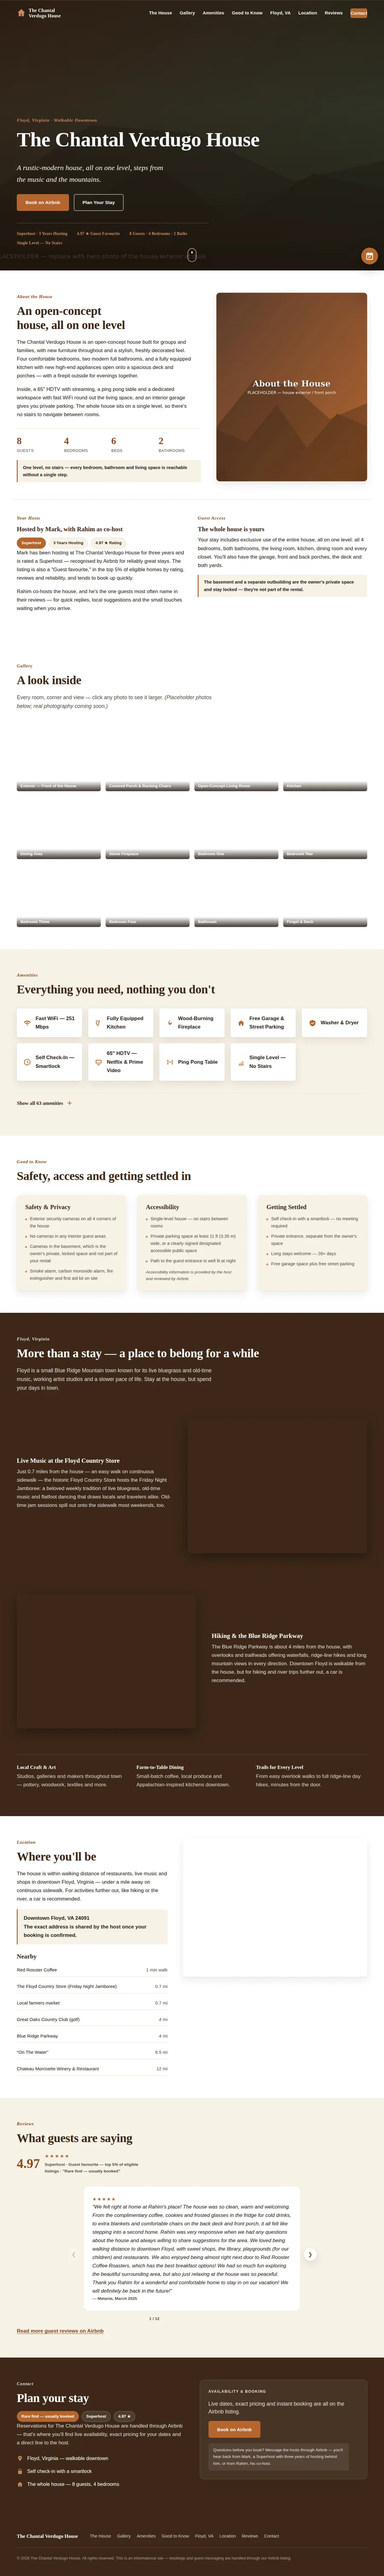
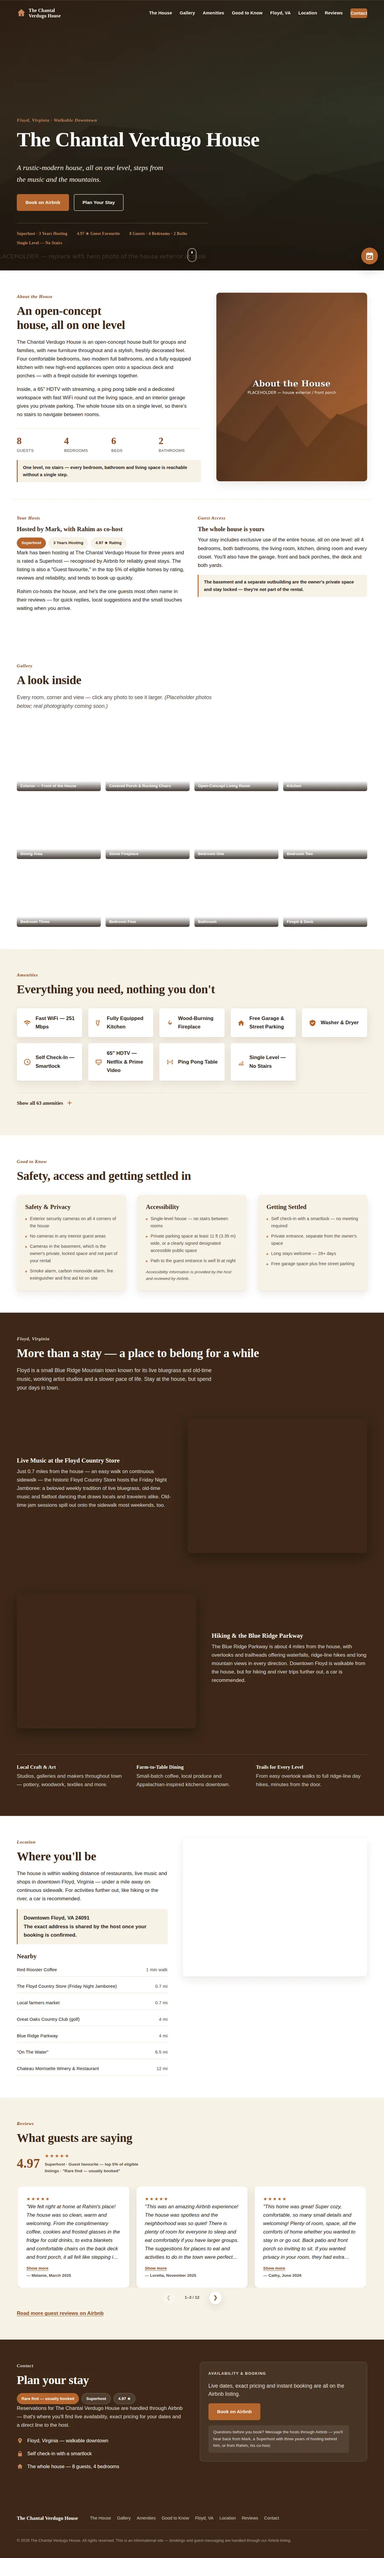
feat(chantal): show 2-3 reviews at a time, and clamp the long quotes (#9)
Owner asked whether several review cards could be visible at once. They can:
three across from 1200px, two from 960px, one below that. The counter follows
("1-3 / 12") and the arrows stop on the last full group rather than the last
card, so paging never leaves a gap at the end of the track.

Fitting more across costs height, though, and that needed fixing first. Cards
share a flex row, so the track always reserves the tallest card's height —
Melanie's two-paragraph review. Narrower cards wrap it onto more lines, so at
three across the box grew to 777px and a page of short reviews sat under about
500px of dead space. Measured at 1440px: 412px tall at one across, 552px at
two, 777px at three.

So clamp the quotes to seven lines, with a "Show more" on the ones that
actually overflow — the same shape Airbnb itself uses. Every card now lands at
the same height and the box is 336px at every width, which is smaller than the
one-across layout it replaces and roughly 470px smaller on a phone.

The clamp is visual only: the full text stays in the DOM, so it is still
verbatim and still there for anything reading the page rather than looking at
it. It is gated behind html.js, because with no script there is no button to
expand with and nothing may be hidden.

Breakpoints are set by the height they produce rather than by round numbers.
Going two-across at 820px made the box 749px tall, worse than the 412px of one
across just below it; 960px keeps cards wide enough to wrap sanely.
[…]

diff --git a/projects/chantal_verdugo_house/css/styles.css b/projects/chantal_verdugo_house/css/styles.css
@@ -1167,14 +1167,19 @@ address {
 
 /* ============ REVIEWS ============ */
 
-/* One review at a time in a bounded box. The track is a native scroll-snap
-   strip, so with JavaScript off it is still swipeable and keyboard-scrollable
-   rather than broken — the arrows are the enhancement, and they hide without JS
-   (see html.js below). */
+/* Three reviews across on a wide screen, two on a tablet, one on a phone. The
+   track is a native scroll-snap strip, so with JavaScript off it is still
+   swipeable and keyboard-scrollable rather than broken — the arrows are the
+   enhancement, and they hide without JS (see html.js below).
+
+   Note the cost of showing more at once: every slide stretches to the tallest,
+   and narrower cards wrap the long quotes onto more lines, so the box grows.
+   Measured at 1440px — 1 across: 412px tall. 2 across: 552px. 3 across: 777px.
+   Dropping the 1120px breakpoint below caps it at two and buys back ~225px. */
 .reviews-carousel {
   position: relative;
   margin: 2.5rem auto 0;
-  max-width: 720px;
+  max-width: 1160px;
 }
 
 .reviews-carousel__track {
@@ -1182,6 +1187,7 @@ address {
   padding: 0;
   margin: 0;
   display: flex;
+  align-items: flex-start;
   gap: 1.5rem;
   overflow-x: auto;
   scroll-snap-type: x mandatory;
@@ -1200,24 +1206,88 @@ address {
   border-radius: var(--radius-lg);
 }
 
+/* snap-align is start, not center: with several cards visible, centring snaps
+   the wrong one into the middle of the track. */
 .review-card {
   flex: 0 0 100%;
-  scroll-snap-align: center;
+  scroll-snap-align: start;
   padding: 1.75rem;
   background: var(--white);
   border-radius: var(--radius-lg);
   box-shadow: var(--shadow-card);
 }
 
+/* Thresholds are set by the height they produce, not by round numbers: a card
+   narrower than ~450px wraps the long quotes badly. Going two-up at 820px made
+   the box 749px tall — worse than the 412px of one-up just below it. */
+@media (min-width: 960px) {
+  .review-card {
+    flex-basis: calc((100% - 1.5rem) / 2);
+  }
+}
+
+@media (min-width: 1200px) {
+  .review-card {
+    flex-basis: calc((100% - 3rem) / 3);
+  }
+}
+
 .review-card > * + * {
   margin-top: 0.75rem;
 }
 
-/* Same 44px circle as .lightbox__nav, recoloured for a light section. */
+/* Guest reviews range from two lines to two paragraphs. Left alone, the track
+   reserves the tallest one's height at every position, so a page of short
+   reviews sat under ~500px of dead space. Clamping evens the cards out and the
+   full text is one click away.
+
+   Gated behind html.js: with no script there is no button to expand with, so
+   nothing may be hidden. */
+html.js .review-card__quote--clamped {
+  display: -webkit-box;
+  -webkit-line-clamp: 7;
+  -webkit-box-orient: vertical;
+  overflow: hidden;
+}
+
+.review-card__more {
+  padding: 0;
+  background: none;
+  border: none;
+  font: inherit;
+  font-style: normal;
+  font-size: 0.85rem;
+  font-weight: 700;
+  color: var(--copper-deep);
+  text-decoration: underline;
+  text-underline-offset: 0.2em;
+  cursor: pointer;
+}
+
+.review-card__more:hover,
+.review-card__more:focus-visible {
+  color: var(--wood-deep);
+}
+
+/* Same 44px circle as .lightbox__nav, recoloured for a light section. The
+   carousel is laid out as a row under the track by default: [prev] [n / 12]
+   [next]. Overlaying the arrows on the card edges only works when the viewport
+   is wide enough to leave a real gutter outside the 1160px box, which is what
+   the 1360px query below checks for. */
+.reviews-carousel {
+  display: flex;
+  flex-wrap: wrap;
+  align-items: center;
+  justify-content: center;
+  gap: 0.75rem;
+}
+
+.reviews-carousel__track {
+  order: 1;
+  flex: 0 0 100%;
+}
+
 .reviews-carousel__nav {
-  position: absolute;
-  top: 50%;
-  transform: translateY(-50%);
   z-index: 2;
   width: 44px;
   height: 44px;
@@ -1252,58 +1322,50 @@ html.js .reviews-carousel__nav {
 }
 
 .reviews-carousel__nav--prev {
-  left: -3.5rem;
-}
-
-.reviews-carousel__nav--next {
-  right: -3.5rem;
-}
-
-/* Below ~820px the track fills the width and there is no gutter to sit in, so
-   overlaid arrows would land on the quote itself. Drop them into a row under the
-   track instead, flanking the counter. Swiping is the primary gesture at this
-   size anyway; the arrows are the fallback. */
-@media (max-width: 820px) {
-  .reviews-carousel {
-    display: flex;
-    flex-wrap: wrap;
-    align-items: center;
-    justify-content: center;
-    gap: 0.75rem;
-  }
-
-  .reviews-carousel__track {
-    order: 1;
-    flex: 0 0 100%;
-  }
-
-  .reviews-carousel__nav {
-    position: static;
-    transform: none;
-  }
-
-  .reviews-carousel__nav--prev {
-    order: 2;
-  }
-
-  .reviews-carousel__status {
-    order: 3;
-    margin: 0;
-    min-width: 4rem;
-  }
-
-  .reviews-carousel__nav--next {
-    order: 4;
-  }
+  order: 2;
 }
 
 .reviews-carousel__status {
-  margin: 1rem 0 0;
+  order: 3;
+  margin: 0;
+  min-width: 5.5rem;
   text-align: center;
   font-size: 0.85rem;
   font-weight: 600;
   color: var(--ink-soft);
 }
+
+.reviews-carousel__nav--next {
+  order: 4;
+}
+
+/* 1160px box + 44px arrow + 12px breathing room on each side. Below this the
+   arrows stay in the row underneath rather than sitting on the quotes. */
+@media (min-width: 1360px) {
+  .reviews-carousel {
+    display: block;
+    position: relative;
+  }
+
+  .reviews-carousel__nav {
+    position: absolute;
+    top: 50%;
+    transform: translateY(-50%);
+  }
+
+  .reviews-carousel__nav--prev {
+    left: -3.5rem;
+  }
+
+  .reviews-carousel__nav--next {
+    right: -3.5rem;
+  }
+
+  .reviews-carousel__status {
+    margin-top: 1rem;
+  }
+}
+
 
 .review-card__stars {
   color: var(--copper);

diff --git a/projects/chantal_verdugo_house/js/main.js b/projects/chantal_verdugo_house/js/main.js
@@ -262,16 +262,63 @@
     var reviewCards = Array.prototype.slice.call(reviewsTrack.children);
     var reviewIndex = 0;
 
+    // Clamp the long quotes so every card is a similar height, and give the ones
+    // that actually overflow a button to open them. Added here rather than in the
+    // markup so a card is only ever given a control it needs.
+    reviewCards.forEach(function (card) {
+      var quote = card.querySelector(".review-card__quote");
+      if (!quote) return;
+
+      quote.classList.add("review-card__quote--clamped");
+      if (quote.scrollHeight <= quote.clientHeight + 1) {
+        quote.classList.remove("review-card__quote--clamped");
+        return;
+      }
+
+      var author = card.querySelector(".review-card__author");
+      var toggle = document.createElement("button");
+      toggle.type = "button";
+      toggle.className = "review-card__more";
+      toggle.textContent = "Show more";
+      toggle.setAttribute("aria-expanded", "false");
+      card.insertBefore(toggle, author);
+
+      toggle.addEventListener("click", function () {
+        var open = quote.classList.toggle("review-card__quote--clamped") === false;
+        toggle.textContent = open ? "Show less" : "Show more";
+        toggle.setAttribute("aria-expanded", String(open));
+      });
+    });
+
+    // How many cards the CSS is currently fitting across the track. Read from
+    // layout rather than duplicating the breakpoints here, so the two can't
+    // drift apart.
+    var reviewsPerView = function () {
+      if (!reviewCards.length) return 1;
+      var step = reviewCards.length > 1 ? reviewCards[1].offsetLeft - reviewCards[0].offsetLeft : 0;
+      if (step <= 0) return 1;
+      return Math.max(1, Math.round(reviewsTrack.clientWidth / step));
+    };
+
+    // The last position is the last full group, not the last card — scrolling
+    // past it would leave blank space at the end of the track.
+    var lastReviewIndex = function () {
+      return Math.max(0, reviewCards.length - reviewsPerView());
+    };
+
     var syncReviewControls = function () {
-      reviewsStatus.textContent = reviewIndex + 1 + " / " + reviewCards.length;
+      var per = reviewsPerView();
+      var last = Math.min(reviewIndex + per, reviewCards.length);
+      reviewsStatus.textContent =
+        (per === 1 ? reviewIndex + 1 : reviewIndex + 1 + "–" + last) + " / " + reviewCards.length;
       // Ends stop rather than wrap: with smooth scrolling, jumping from the last
       // review back to the first would sweep through all the ones between.
       reviewsPrev.disabled = reviewIndex === 0;
-      reviewsNext.disabled = reviewIndex === reviewCards.length - 1;
+      reviewsNext.disabled = reviewIndex >= lastReviewIndex();
     };
 
     var goToReview = function (index) {
-      reviewIndex = Math.max(0, Math.min(index, reviewCards.length - 1));
+      reviewIndex = Math.max(0, Math.min(index, lastReviewIndex()));
       reviewsTrack.scrollTo({
         left: reviewCards[reviewIndex].offsetLeft - reviewsTrack.offsetLeft,
         behavior: reduceMotionQuery.matches ? "auto" : "smooth",
@@ -296,22 +343,33 @@
     reviewsTrack.addEventListener("scroll", function () {
       window.clearTimeout(reviewScrollTimer);
       reviewScrollTimer = window.setTimeout(function () {
-        var middle = reviewsTrack.scrollLeft + reviewsTrack.clientWidth / 2;
+        // Match on the card's leading edge, since slides snap to start.
         var nearest = 0;
         var shortest = Infinity;
         reviewCards.forEach(function (card, i) {
-          var centre = card.offsetLeft - reviewsTrack.offsetLeft + card.offsetWidth / 2;
-          var distance = Math.abs(centre - middle);
+          var distance = Math.abs(card.offsetLeft - reviewsTrack.offsetLeft - reviewsTrack.scrollLeft);
           if (distance < shortest) {
             shortest = distance;
             nearest = i;
           }
         });
+        nearest = Math.min(nearest, lastReviewIndex());
         if (nearest !== reviewIndex) {
           reviewIndex = nearest;
           syncReviewControls();
         }
       }, 140);
+    });
+
+    // A resize can change how many cards fit, which moves the last valid
+    // position and the counter's range.
+    var reviewsResizeTimer = null;
+    window.addEventListener("resize", function () {
+      window.clearTimeout(reviewsResizeTimer);
+      reviewsResizeTimer = window.setTimeout(function () {
+        reviewIndex = Math.min(reviewIndex, lastReviewIndex());
+        syncReviewControls();
+      }, 150);
     });
 
     // Bound to the carousel, not the document, so it can't fight the lightbox's

diff --git a/index.html b/index.html
@@ -208,7 +208,7 @@
                     alt=""
                     loading="lazy"
                     width="900"
-                    height="6028" />
+                    height="5986" />
                 </picture>
               </span>
             </a>
